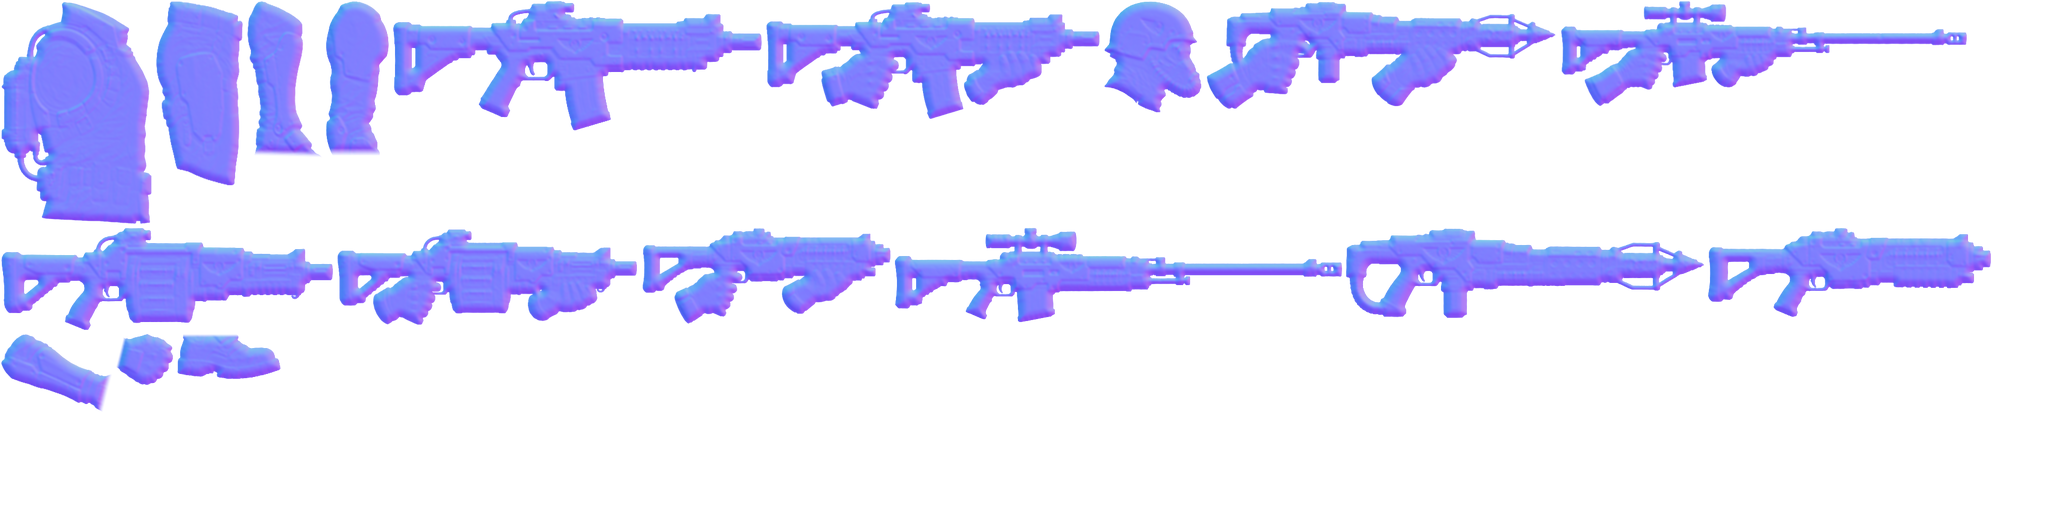
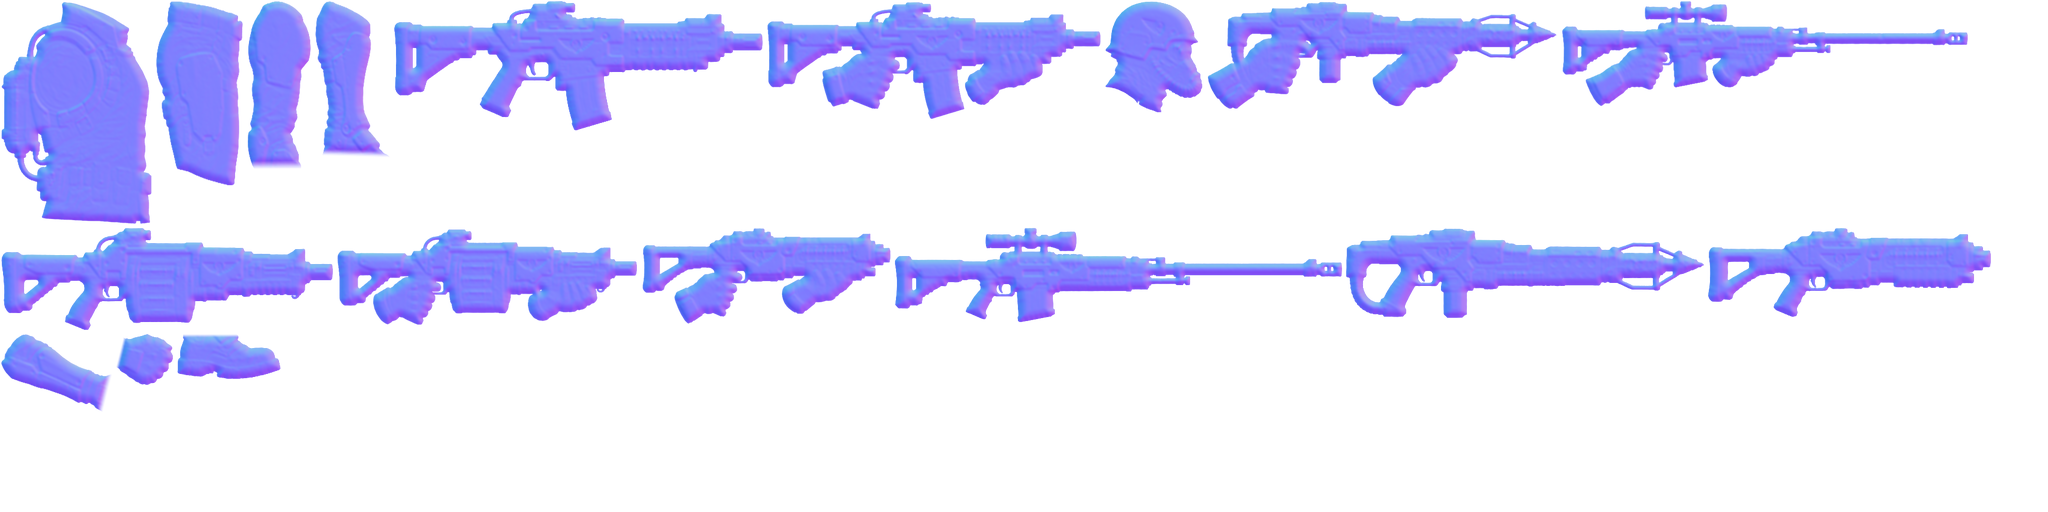
Move the grunt's shoulder joint back to cover the armhole

diff --git a/tools/build_chars.py b/tools/build_chars.py
@@ -34,8 +34,8 @@ CHARS = {
  }),
  "grunt": dict(height=1.8, res=0.6, parts={
    "head": dict(pivot=(98, 172), top=(80, 8)),
-   "torso": dict(src="art_src/chars/torso_fix/grunt.png", pivot=(140, 350), neck=(158, 58), shoulder=(180, 88), hip=(140, 350)),
-   "upperarm": dict(pivot=(55, 52), end=(55, 222), clip=250),
+   "torso": dict(src="art_src/chars/torso_fix/grunt.png", pivot=(140, 350), neck=(158, 58), shoulder=(126, 128), hip=(140, 350)),
+   "upperarm": dict(pivot=(62, 66), end=(55, 222), clip=250),
    "forearm": dict(pivot=(35, 65), end=(215, 110)),
    "thigh": dict(pivot=(80, 40), end=(85, 240)),
    "shin": dict(pivot=(45, 35), end=(70, 215), sole=(70, 268)),
